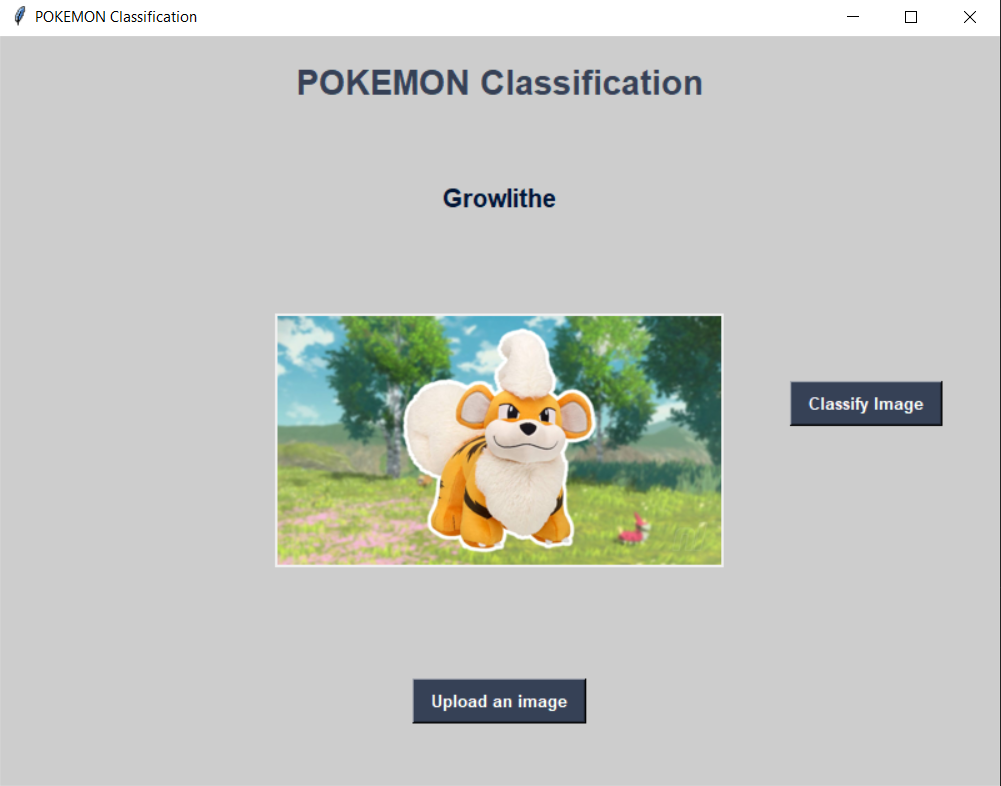
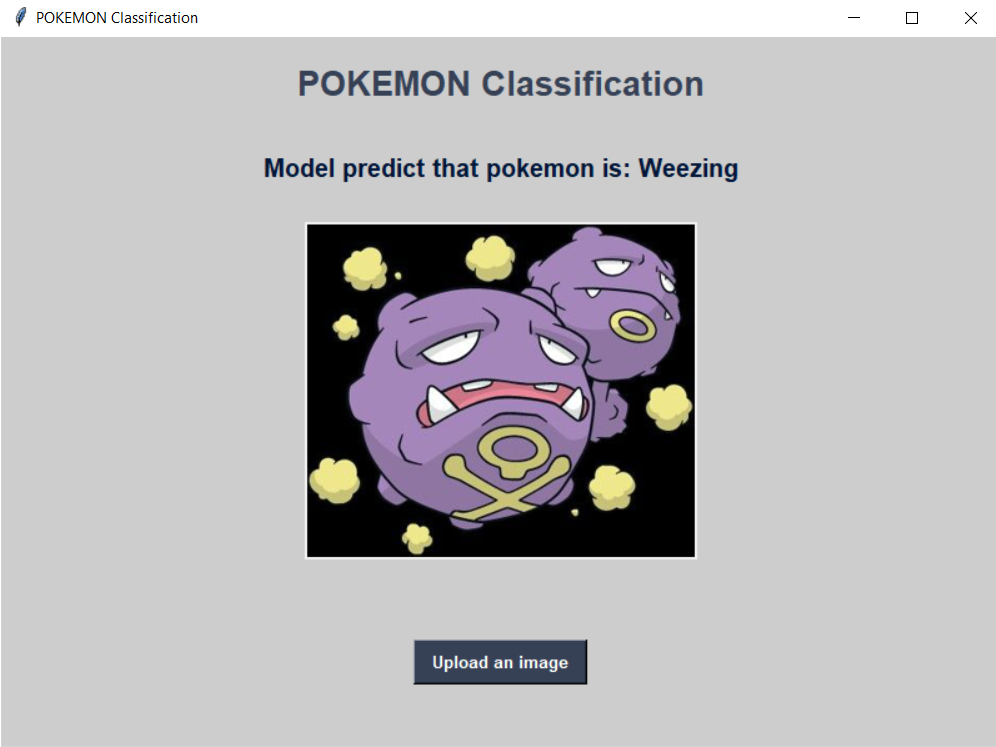
GUI upgrade

diff --git a/gui_predict.py b/gui_predict.py
@@ -33,22 +33,6 @@ top.title('POKEMON Classification')
 top.configure(background='#CDCDCD')
 label = Label(top,background='#CDCDCD', font=('arial',15,'bold'))
 sign_image = Label(top)
-
-def classify(file_path):
-    img = Image.open(file_path)
-    img = data_transforms(img).to(device)
-    img = img.unsqueeze(0)
-    #Predict
-    output = model(img)
-    _, predicted = torch.max(output, 1)
-    sign = "Model predict that pokemon is: " + myl[predicted]
-    print(sign)
-    label.configure(foreground='#011638', text=sign) 
-    
-def show_classify_button(file_path):
-    classify_b=Button(top,text="Classify Image", command=lambda: classify(file_path), padx=10,pady=5)
-    classify_b.configure(background='#364156', foreground='white', font=('arial',10,'bold'))
-    classify_b.place(relx=0.79,rely=0.46)
     
 def upload_image():
     try:
@@ -59,7 +43,16 @@ def upload_image():
         sign_image.configure(image=im)
         sign_image.image=im
         label.configure(text='')
-        show_classify_button(file_path)
+        img = Image.open(file_path)
+        img = data_transforms(img).to(device)
+        img = img.unsqueeze(0)
+        #Predict
+        output = model(img)
+        _, predicted = torch.max(output, 1)
+        sign = "Model predict that pokemon is: " + myl[predicted]
+        print(sign)
+        label.configure(foreground='#011638', text=sign) 
+        # show_classify_button(file_path)
     except:
         pass
 upload = Button(top,text="Upload an image",command=upload_image,padx=10,pady=5)
